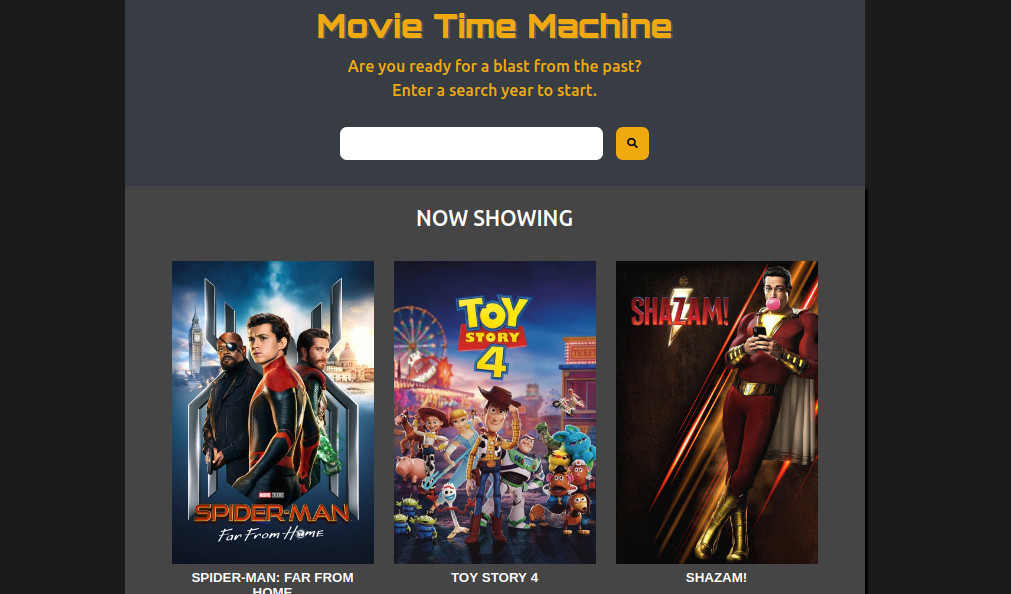
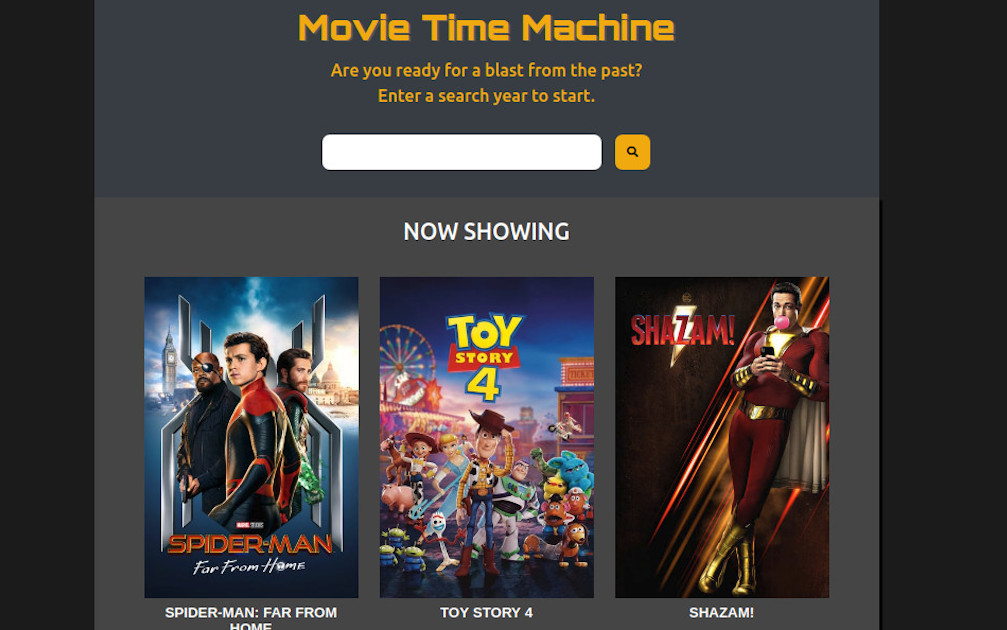
images all same size, bootstrap nav started

diff --git a/src/components/Gallery.jsx b/src/components/Gallery.jsx
@@ -2,18 +2,32 @@ import React from "react";
 import Card from "./Card";
 import "../styles/gallery.css";
 
-import { Container } from 'react-bootstrap';
-
+import { Container, Row, Col } from "react-bootstrap";
 
 const Gallery = () => {
     return (
         <Container>
-            <div className="gallery">
-                <Card image={require("../images/movie-time-machine.jpg")} />
-                <Card image={require("../images/book-finder.jpg")} />
-                <Card image={require("../images/knowledge-rocket.jpg")} />
-                <Card image={require("../images/lambda-notes.jpg")} />
-            </div>
+            <Row>
+                <Col>
+                    <div className="gallery">
+                        <a href="https://movie-time-machine.netlify.com/" target="_">
+                            <Card image={require("../images/movie-time-machine.jpg")} />
+                            <div className="details">
+                                <p>candy</p>
+                            </div>
+                        </a>
+                        <a href="https://lisacee-book-finder.netlify.com/" target="_">
+                            <Card image={require("../images/book-finder.jpg")} />
+                        </a>
+                        <a href="https://infallible-euler-24eb8a.netlify.com/" target="_">
+                            <Card image={require("../images/knowledge-rocket.jpg")} />
+                        </a>
+                        <a href="https://infallible-euler-24eb8a.netlify.com/">
+                            <Card image={require("../images/lambda-notes.jpg")} />
+                        </a>
+                    </div>
+                </Col>
+            </Row>
         </Container>
     );
 };

diff --git a/src/components/Header.jsx b/src/components/Header.jsx
@@ -1,17 +1,36 @@
 import React from "react";
 import "../styles/header.css";
+import { Navbar, Nav } from "react-bootstrap";
 
 const Header = () => {
-    return (
-        <div id="header">
-            <img
-                className="logo"
-                src="https://sedonatrailzen.com/wp-content/uploads/2016/01/Enso_grey.png"
-                alt="placeholder logo"
-            />
-            <h1>LisaCee</h1>
-        </div>
-    );
+  return (
+    <div id="header">
+      <Navbar expand="lg">
+        <Navbar.Brand href="#home">React-Bootstrap</Navbar.Brand>
+        <Navbar.Toggle aria-controls="basic-navbar-nav" />
+        <Navbar.Collapse id="basic-navbar-nav">
+          <Nav className="mr-auto">
+            <Nav.Link href="#home">Home</Nav.Link>
+            <Nav.Link href="#link">Link</Nav.Link>
+          </Nav>
+        </Navbar.Collapse>
+      </Navbar>
+    </div>
+  );
 };
 
 export default Header;
+
+// {/* <div id="header">
+//       {/* <Logo /> */}
+//       <img
+//         className="logo"
+//         src={require("../images/LisaCee.png")}
+//         alt="placeholder logo"
+//       />
+//       <h1>Lisa Canini</h1>
+//       <p>
+//         Full stack developer passionate about making easy-to-use, accessible and
+//         responsive user interfaces
+//       </p>
+//     </div> */}

diff --git a/src/styles/header.css b/src/styles/header.css
@@ -1,18 +1,38 @@
-#header {
-    /* background-color: rgb(0, 128, 128, 0.5); */
-    background-image: linear-gradient(#83c7b4, #d2f2e9);
+.navbar {
+    background-image: linear-gradient(#8ad1d8, #d2f2e9);
     display: flex;
     align-items: center;
     padding: 1%;
+    min-height: 100px;
+    min-width: 100vw;
 }
 
-.logo {
-    max-width: 15%;
+/* @media (max-width: 700px) {
+    p {
+      display: none;
+    }
+  }
+  
+  #header {
+    background-image: linear-gradient(#8ad1d8, #d2f2e9);
+    display: flex;
+    align-items: center;
+    padding: 1%;
+    min-height: 100px;
+    min-width: 100vw;
+  }
+  
+  .logo {
+    max-width: 25%;
     text-align: left;
     padding: 3%;
-}
-
-h1 {
-    font-size: 5rem;
+  }
+  
+  h1 {
+    font-size: 1.5rem;
     font-weight: lighter;
-}
+  }
+  
+  p {
+    align-self: flex-end;
+  } */

diff --git a/src/styles/card.css b/src/styles/card.css
@@ -1,14 +1,33 @@
+/* portfolio images 1000px x 630px */
+
 .item {
-    /* background: white; */
     display: flex;
     align-content: space-around;
     margin-right: 50px;
+    flex-flow: wrap;
+    margin: 2%;
+}
+
+.item img:hover {
+    border: 3px solid grey;
+    opacity: 0.3;
 }
 
 .item img {
-    max-width: 355px;
-    min-height: 225px;
-    align-items: center;
-    border: 1rem solid white;
-    box-sizing: content-box;
+    min-width: 100%;
+    height: 225px;
+    border: 0.5rem solid white;
+}
+
+@media (min-width: 768px) {
+    .item {
+        max-width: 300px;
+        margin: 2%;
+    }
+    .item img {
+        max-width: 350px;
+        max-height: 225px;
+        align-items: center;
+        box-sizing: content-box;
+    }
 }

diff --git a/src/styles/gallery.css b/src/styles/gallery.css
@@ -1,7 +1,9 @@
 .gallery {
     display: flex;
-    flex-wrap: flex;
-    flex-direction: row;
-    justify-content: space-around;
-    margin: 3%;
+    flex-wrap: wrap;
+    justify-content: center;
+}
+
+.details {
+    display: none;
 }
